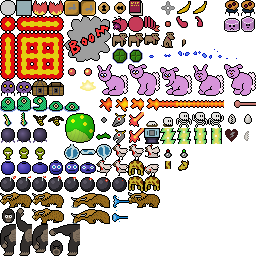
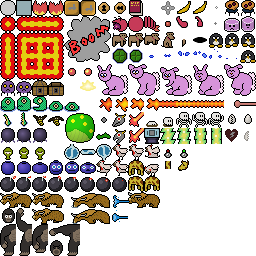
Penguin, incomplete, committing to synchronize

Changed region(s): [[0.75, 0.125, 1.0, 0.25]]

diff --git a/src/game/sprites/ps_sprite_penguin.c b/src/game/sprites/ps_sprite_penguin.c
@@ -1,0 +1,304 @@
+#include "ps.h"
+#include "game/ps_sprite.h"
+#include "game/ps_game.h"
+#include "akgl/akgl.h"
+#include <math.h>
+
+#define PS_PENGUIN_PHASE_THREATEN      1 /* Just a shadow, growing. */
+#define PS_PENGUIN_PHASE_FALL          2 /* Shadow at full size, penguin falling from above. */
+#define PS_PENGUIN_PHASE_DAZED         3 /* Sitting on the ground, seeing spots. */
+#define PS_PENGUIN_PHASE_IDLE          4 /* Standing still. */
+#define PS_PENGUIN_PHASE_WALK          5 /* Walking nowhere in a straight line. */
+
+#define PS_PENGUIN_THREATEN_TIME   60
+#define PS_PENGUIN_FALL_TIME       30
+#define PS_PENGUIN_DAZED_TIME      60
+#define PS_PENGUIN_IDLE_TIME_MIN   30
+#define PS_PENGUIN_IDLE_TIME_MAX  120
+#define PS_PENGUIN_WALK_TIME_MIN   60
+#define PS_PENGUIN_WALK_TIME_MAX  180
+
+#define PS_PENGUIN_DAZED_STAR_COUNT 6
+#define PS_PENGUIN_SHADOW_SIZE_MIN 1
+#define PS_PENGUIN_SHADOW_SIZE_MAX PS_TILESIZE
+#define PS_PENGUIN_SHADOW_OFFSET 6
+#define PS_PENGUIN_STARS_OFFSET ((PS_TILESIZE*4)/8)
+#define PS_PENGUIN_STAR_X_RADIUS  8
+#define PS_PENGUIN_STAR_Y_RADIUS  4
+#define PS_PENGUIN_WALK_FRAME_TIME 8
+#define PS_PENGUIN_WALK_FRAME_COUNT 4
+#define PS_PENGUIN_WALK_SPEED 1.0
+
+#define PS_PENGUIN_NORMAL_GROUPS ( \
+  (1<<PS_SPRGRP_KEEPALIVE)| \
+  (1<<PS_SPRGRP_VISIBLE)| \
+  (1<<PS_SPRGRP_UPDATE)| \
+  (1<<PS_SPRGRP_SOLID)| \
+  (1<<PS_SPRGRP_PHYSICS)| \
+  (1<<PS_SPRGRP_FRAGILE)| \
+  (1<<PS_SPRGRP_HEROHAZARD)| \
+0)
+
+/* Private sprite object.
+ */
+
+struct ps_sprite_penguin {
+  struct ps_sprite hdr;
+  int phase;
+  int phasetime;
+  int animtime;
+  int animframe;
+  double walkdx,walkdy;
+};
+
+#define SPR ((struct ps_sprite_penguin*)spr)
+
+/* Delete.
+ */
+
+static void _ps_penguin_del(struct ps_sprite *spr) {
+}
+
+/* Initialize.
+ */
+
+static int _ps_penguin_init(struct ps_sprite *spr) {
+
+  SPR->phase=PS_PENGUIN_PHASE_THREATEN;
+  SPR->phasetime=PS_PENGUIN_THREATEN_TIME;
+
+  return 0;
+}
+
+/* Configure.
+ */
+
+static int _ps_penguin_configure(struct ps_sprite *spr,struct ps_game *game,const int *argv,int argc,const struct ps_sprdef *sprdef) {
+  return 0;
+}
+
+static const char *_ps_penguin_get_configure_argument_name(int argp) {
+  // Very short descriptions of arguments to _ps_penguin_configure(), for editor.
+  return 0;
+}
+
+/* Phase transitions.
+ */
+
+static int ps_penguin_begin_FALL(struct ps_sprite *spr,struct ps_game *game) {
+  SPR->phase=PS_PENGUIN_PHASE_FALL;
+  SPR->phasetime=PS_PENGUIN_FALL_TIME;
+  return 0;
+}
+
+static int ps_penguin_begin_DAZED(struct ps_sprite *spr,struct ps_game *game) {
+  SPR->phase=PS_PENGUIN_PHASE_DAZED;
+  SPR->phasetime=PS_PENGUIN_DAZED_TIME;
+  if (ps_game_set_group_mask_for_sprite(game,spr,PS_PENGUIN_NORMAL_GROUPS)<0) return -1;
+  return 0;
+}
+
+static int ps_penguin_begin_IDLE(struct ps_sprite *spr,struct ps_game *game) {
+  SPR->phase=PS_PENGUIN_PHASE_IDLE;
+  SPR->phasetime=PS_PENGUIN_IDLE_TIME_MIN+rand()%(PS_PENGUIN_IDLE_TIME_MAX-PS_PENGUIN_IDLE_TIME_MIN);
+  return 0;
+}
+
+static int ps_penguin_begin_WALK(struct ps_sprite *spr,struct ps_game *game) {
+  SPR->phase=PS_PENGUIN_PHASE_WALK;
+  SPR->phasetime=PS_PENGUIN_WALK_TIME_MIN+rand()%(PS_PENGUIN_WALK_TIME_MAX-PS_PENGUIN_WALK_TIME_MIN);
+
+  double t=(rand()%6282)/1000.0;
+  SPR->walkdx=cos(t)*PS_PENGUIN_WALK_SPEED;
+  SPR->walkdy=sin(t)*PS_PENGUIN_WALK_SPEED;
+
+  //TODO walk away from edges
+
+  return 0;
+}
+
+/* Update WALK.
+ */
+
+static int ps_penguin_update_WALK(struct ps_sprite *spr,struct ps_game *game) {
+
+  if (++(SPR->animtime)>=PS_PENGUIN_WALK_FRAME_TIME) {
+    SPR->animtime=0;
+    if (++(SPR->animframe)>=PS_PENGUIN_WALK_FRAME_COUNT) {
+      SPR->animframe=0;
+    }
+  }
+
+  spr->x+=SPR->walkdx;
+  spr->y+=SPR->walkdy;
+
+  return 0;
+}
+
+/* Update.
+ */
+
+static int _ps_penguin_update(struct ps_sprite *spr,struct ps_game *game) {
+
+  if (--(SPR->phasetime)<=0) {
+    switch (SPR->phase) {
+      case PS_PENGUIN_PHASE_THREATEN: if (ps_penguin_begin_FALL(spr,game)<0) return -1; break;
+      case PS_PENGUIN_PHASE_FALL: if (ps_penguin_begin_DAZED(spr,game)<0) return -1; break;
+      case PS_PENGUIN_PHASE_DAZED: if (ps_penguin_begin_IDLE(spr,game)<0) return -1; break;
+      case PS_PENGUIN_PHASE_IDLE: if (ps_penguin_begin_WALK(spr,game)<0) return -1; break;
+      case PS_PENGUIN_PHASE_WALK: default: if (ps_penguin_begin_IDLE(spr,game)<0) return -1; break;
+    }
+  }
+
+  switch (SPR->phase) {
+    case PS_PENGUIN_PHASE_WALK: if (ps_penguin_update_WALK(spr,game)<0) return -1; break;
+  }
+
+  return 0;
+}
+
+/* Count vertices.
+ */
+
+static int ps_penguin_count_vertices(const struct ps_sprite *spr) {
+  switch (SPR->phase) {
+    case PS_PENGUIN_PHASE_THREATEN: return 1;
+    case PS_PENGUIN_PHASE_FALL: return 2;
+    case PS_PENGUIN_PHASE_DAZED: return 1+PS_PENGUIN_DAZED_STAR_COUNT;
+    default: return 1;
+  }
+}
+
+/* Draw shadow, optionally growing based on an arbitrary counter.
+ */
+
+static void ps_penguin_draw_shadow(struct akgl_vtx_maxtile *vtx,const struct ps_sprite *spr,int p,int c) {
+  vtx->x=spr->x;
+  vtx->y=spr->y+PS_PENGUIN_SHADOW_OFFSET;
+  vtx->tileid=spr->tileid;
+  vtx->ta=0;
+  vtx->pr=vtx->pg=vtx->pb=0x80;
+  vtx->a=0xff;
+  vtx->t=0;
+  vtx->xform=AKGL_XFORM_NONE;
+  if (p<=0) {
+    vtx->size=PS_PENGUIN_SHADOW_SIZE_MIN;
+  } else if (p>=c) {
+    vtx->size=PS_PENGUIN_SHADOW_SIZE_MAX;
+  } else {
+    vtx->size=PS_PENGUIN_SHADOW_SIZE_MIN+((c-p)*(PS_PENGUIN_SHADOW_SIZE_MAX-PS_PENGUIN_SHADOW_SIZE_MIN))/c;
+  }
+}
+
+/* Draw body.
+ */
+
+static void ps_penguin_draw_body(struct akgl_vtx_maxtile *vtx,const struct ps_sprite *spr,int dy,int dtile) {
+  vtx->x=spr->x;
+  vtx->y=spr->y-dy;
+  vtx->tileid=spr->tileid+dtile;
+  vtx->size=PS_TILESIZE;
+  vtx->ta=0;
+  vtx->pr=vtx->pg=vtx->pb=0x80;
+  vtx->a=0xff;
+  vtx->t=0;
+  vtx->xform=AKGL_XFORM_NONE;
+}
+
+/* Draw stars.
+ */
+
+static int ps_penguin_get_star_color(int i) {
+  switch (i&7) {
+    case 0: return 0xff0000;
+    case 1: return 0x00ff00;
+    case 2: return 0x0000ff;
+    case 3: return 0xffff00;
+    case 4: return 0xff00ff;
+    case 5: return 0x00ffff;
+    case 6: return 0xffffff;
+    case 7: return 0x000000;
+  }
+  return 0;
+}
+
+static void ps_penguin_draw_stars(struct akgl_vtx_maxtile *vtxv,int vtxc,const struct ps_sprite *spr) {
+  vtxv->x=spr->x;
+  vtxv->y=spr->y-PS_PENGUIN_STARS_OFFSET;
+  vtxv->size=PS_TILESIZE;
+  vtxv->ta=0;
+  vtxv->a=0xff;
+  vtxv->t=0;
+  vtxv->xform=AKGL_XFORM_NONE;
+  double rotation=(SPR->phasetime*M_PI*2.0)/PS_PENGUIN_DAZED_TIME;
+  struct akgl_vtx_maxtile *vtx=vtxv;
+  int i=0; for (;i<vtxc;i++,vtx++) {
+    memcpy(vtx,vtxv,sizeof(struct akgl_vtx_maxtile));
+    int rgb=ps_penguin_get_star_color(i);
+    vtx->pr=rgb>>16;
+    vtx->pg=rgb>>8;
+    vtx->pb=rgb;
+    vtx->tileid=(i&1)?0x0d:0x1d;
+    double t=(i*M_PI*2.0)/vtxc;
+    t+=rotation;
+    vtx->x+=cos(t)*PS_PENGUIN_STAR_X_RADIUS;
+    vtx->y-=sin(t)*PS_PENGUIN_STAR_Y_RADIUS;
+  }
+}
+
+/* Draw.
+ */
+
+static int _ps_penguin_draw(struct akgl_vtx_maxtile *vtxv,int vtxa,struct ps_sprite *spr) {
+  int vtxc=ps_penguin_count_vertices(spr);
+  if (vtxc>vtxa) return vtxc;
+
+  switch (SPR->phase) {
+    case PS_PENGUIN_PHASE_THREATEN: {
+        ps_penguin_draw_shadow(vtxv,spr,SPR->phasetime,PS_PENGUIN_THREATEN_TIME);
+      } break;
+    case PS_PENGUIN_PHASE_FALL: {
+        int dy=(SPR->phasetime*spr->y)/PS_PENGUIN_FALL_TIME;
+        ps_penguin_draw_shadow(vtxv,spr,1,1);
+        ps_penguin_draw_body(vtxv+1,spr,dy,0x01);
+      } break;
+    case PS_PENGUIN_PHASE_DAZED: {
+        ps_penguin_draw_body(vtxv,spr,0,0x13);
+        ps_penguin_draw_stars(vtxv+1,vtxc-1,spr);
+      } break;
+    case PS_PENGUIN_PHASE_IDLE: {
+        ps_penguin_draw_body(vtxv,spr,0,0x01);
+      } break;
+    case PS_PENGUIN_PHASE_WALK: {
+        int frame=0x01;
+        switch (SPR->animframe) {
+          case 0: frame=0x02; break;
+          case 2: frame=0x03; break;
+        }
+        ps_penguin_draw_body(vtxv,spr,0,frame);
+      } break;
+    default: return 0;
+  }
+  
+  return vtxc;
+}
+
+/* Type definition.
+ */
+
+const struct ps_sprtype ps_sprtype_penguin={
+  .name="penguin",
+  .objlen=sizeof(struct ps_sprite_penguin),
+
+  .radius=PS_TILESIZE>>1,
+  .shape=PS_SPRITE_SHAPE_CIRCLE,
+  .layer=100,
+
+  .init=_ps_penguin_init,
+  .del=_ps_penguin_del,
+  .configure=_ps_penguin_configure,
+  .get_configure_argument_name=_ps_penguin_get_configure_argument_name,
+  .update=_ps_penguin_update,
+  .draw=_ps_penguin_draw,
+  
+};

diff --git a/src/game/ps_sprtype.c b/src/game/ps_sprtype.c
@@ -45,6 +45,7 @@ const struct ps_sprtype *ps_sprtype_by_name(const char *name,int namec) {
   if ((namec==3)&&!memcmp(name,"egg",3)) return &ps_sprtype_egg;
   if ((namec==12)&&!memcmp(name,"motionsensor",12)) return &ps_sprtype_motionsensor;
   if ((namec==7)&&!memcmp(name,"gorilla",7)) return &ps_sprtype_gorilla;
+  if ((namec==7)&&!memcmp(name,"penguin",7)) return &ps_sprtype_penguin;
 //INSERT SPRTYPE NAME TEST HERE
 
   return 0;
@@ -90,5 +91,6 @@ const struct ps_sprtype *ps_all_sprtypes[]={
   &ps_sprtype_egg,
   &ps_sprtype_motionsensor,
   &ps_sprtype_gorilla,
+  &ps_sprtype_penguin,
 //INSERT SPRTYPE REFERENCE HERE
 0};

diff --git a/src/main/ps_main.c b/src/main/ps_main.c
@@ -155,7 +155,7 @@ static int ps_main_init(const struct ps_cmdline *cmdline) {
 
   if (cmdline->saved_game_path) {
     if (ps_setup_restore_game(cmdline->saved_game_path)<0) return -1;
-  } else if (0) { // Nonzero for normal interactive setup, zero for quick testing setup
+  } else if (1) { // Nonzero for normal interactive setup, zero for quick testing setup
     if (ps_gui_load_page_assemble(ps_gui)<0) return -1;
   } else {
     if (ps_setup_test_game(

diff --git a/src/game/ps_sprite.h b/src/game/ps_sprite.h
@@ -187,6 +187,7 @@ extern const struct ps_sprtype ps_sprtype_chicken;
 extern const struct ps_sprtype ps_sprtype_egg;
 extern const struct ps_sprtype ps_sprtype_motionsensor;
 extern const struct ps_sprtype ps_sprtype_gorilla;
+extern const struct ps_sprtype ps_sprtype_penguin;
 //INSERT SPRTYPE DEFINITION HERE
 
 /* API for sprite types too trivial to warrant their own headers.
